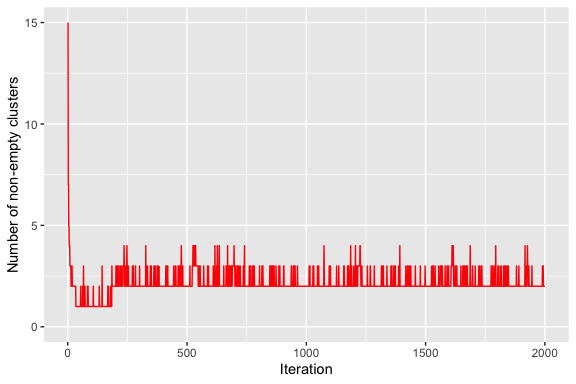
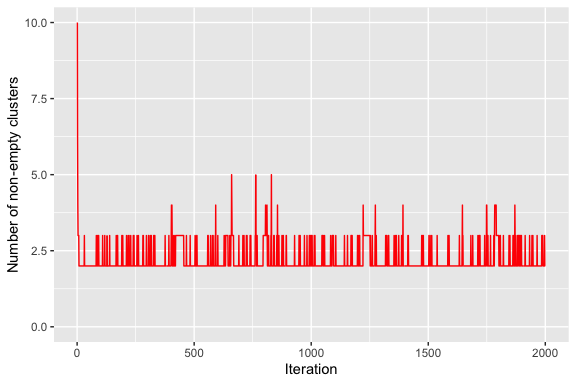
Added seed in README

diff --git a/README.md b/README.md
@@ -45,6 +45,7 @@ library(BayesMallowsDPMixture)
 Create synthetic data to test the DPMixture:
 
 ``` r
+set.seed(123)
 d1 <- sample_mallows(1:10, 5, 20)
 d2 <- sample_mallows(10:1, 2, 20)
 data <- rbind(d1,d2)
@@ -125,7 +126,7 @@ max(fit$partition$cl)
 table(fit$partition$cl)
 #> 
 #>  1  2 
-#> 19 21
+#> 20 20
 ```
 
 After a partition has been estimated, you can visualize the
@@ -143,8 +144,8 @@ plot(fit, parameter = "alpha")
 ``` r
 compute_posterior_intervals(fit, parameter = "alpha")
 #>     cluster parameter  mean median conf_level          hpdi central_interval
-#> 1 Cluster 1     alpha 4.303  4.529       95 % [1.316,5.790]    [1.038,5.628]
-#> 2 Cluster 2     alpha 1.406  1.280       95 % [0.166,3.026]    [0.326,4.318]
+#> 1 Cluster 1     alpha 5.359  5.363       95 % [4.581,6.255]    [4.520,6.210]
+#> 2 Cluster 2     alpha 1.869  1.847       95 % [1.139,2.584]    [1.153,2.653]
 ```
 
 # BayesMallows
